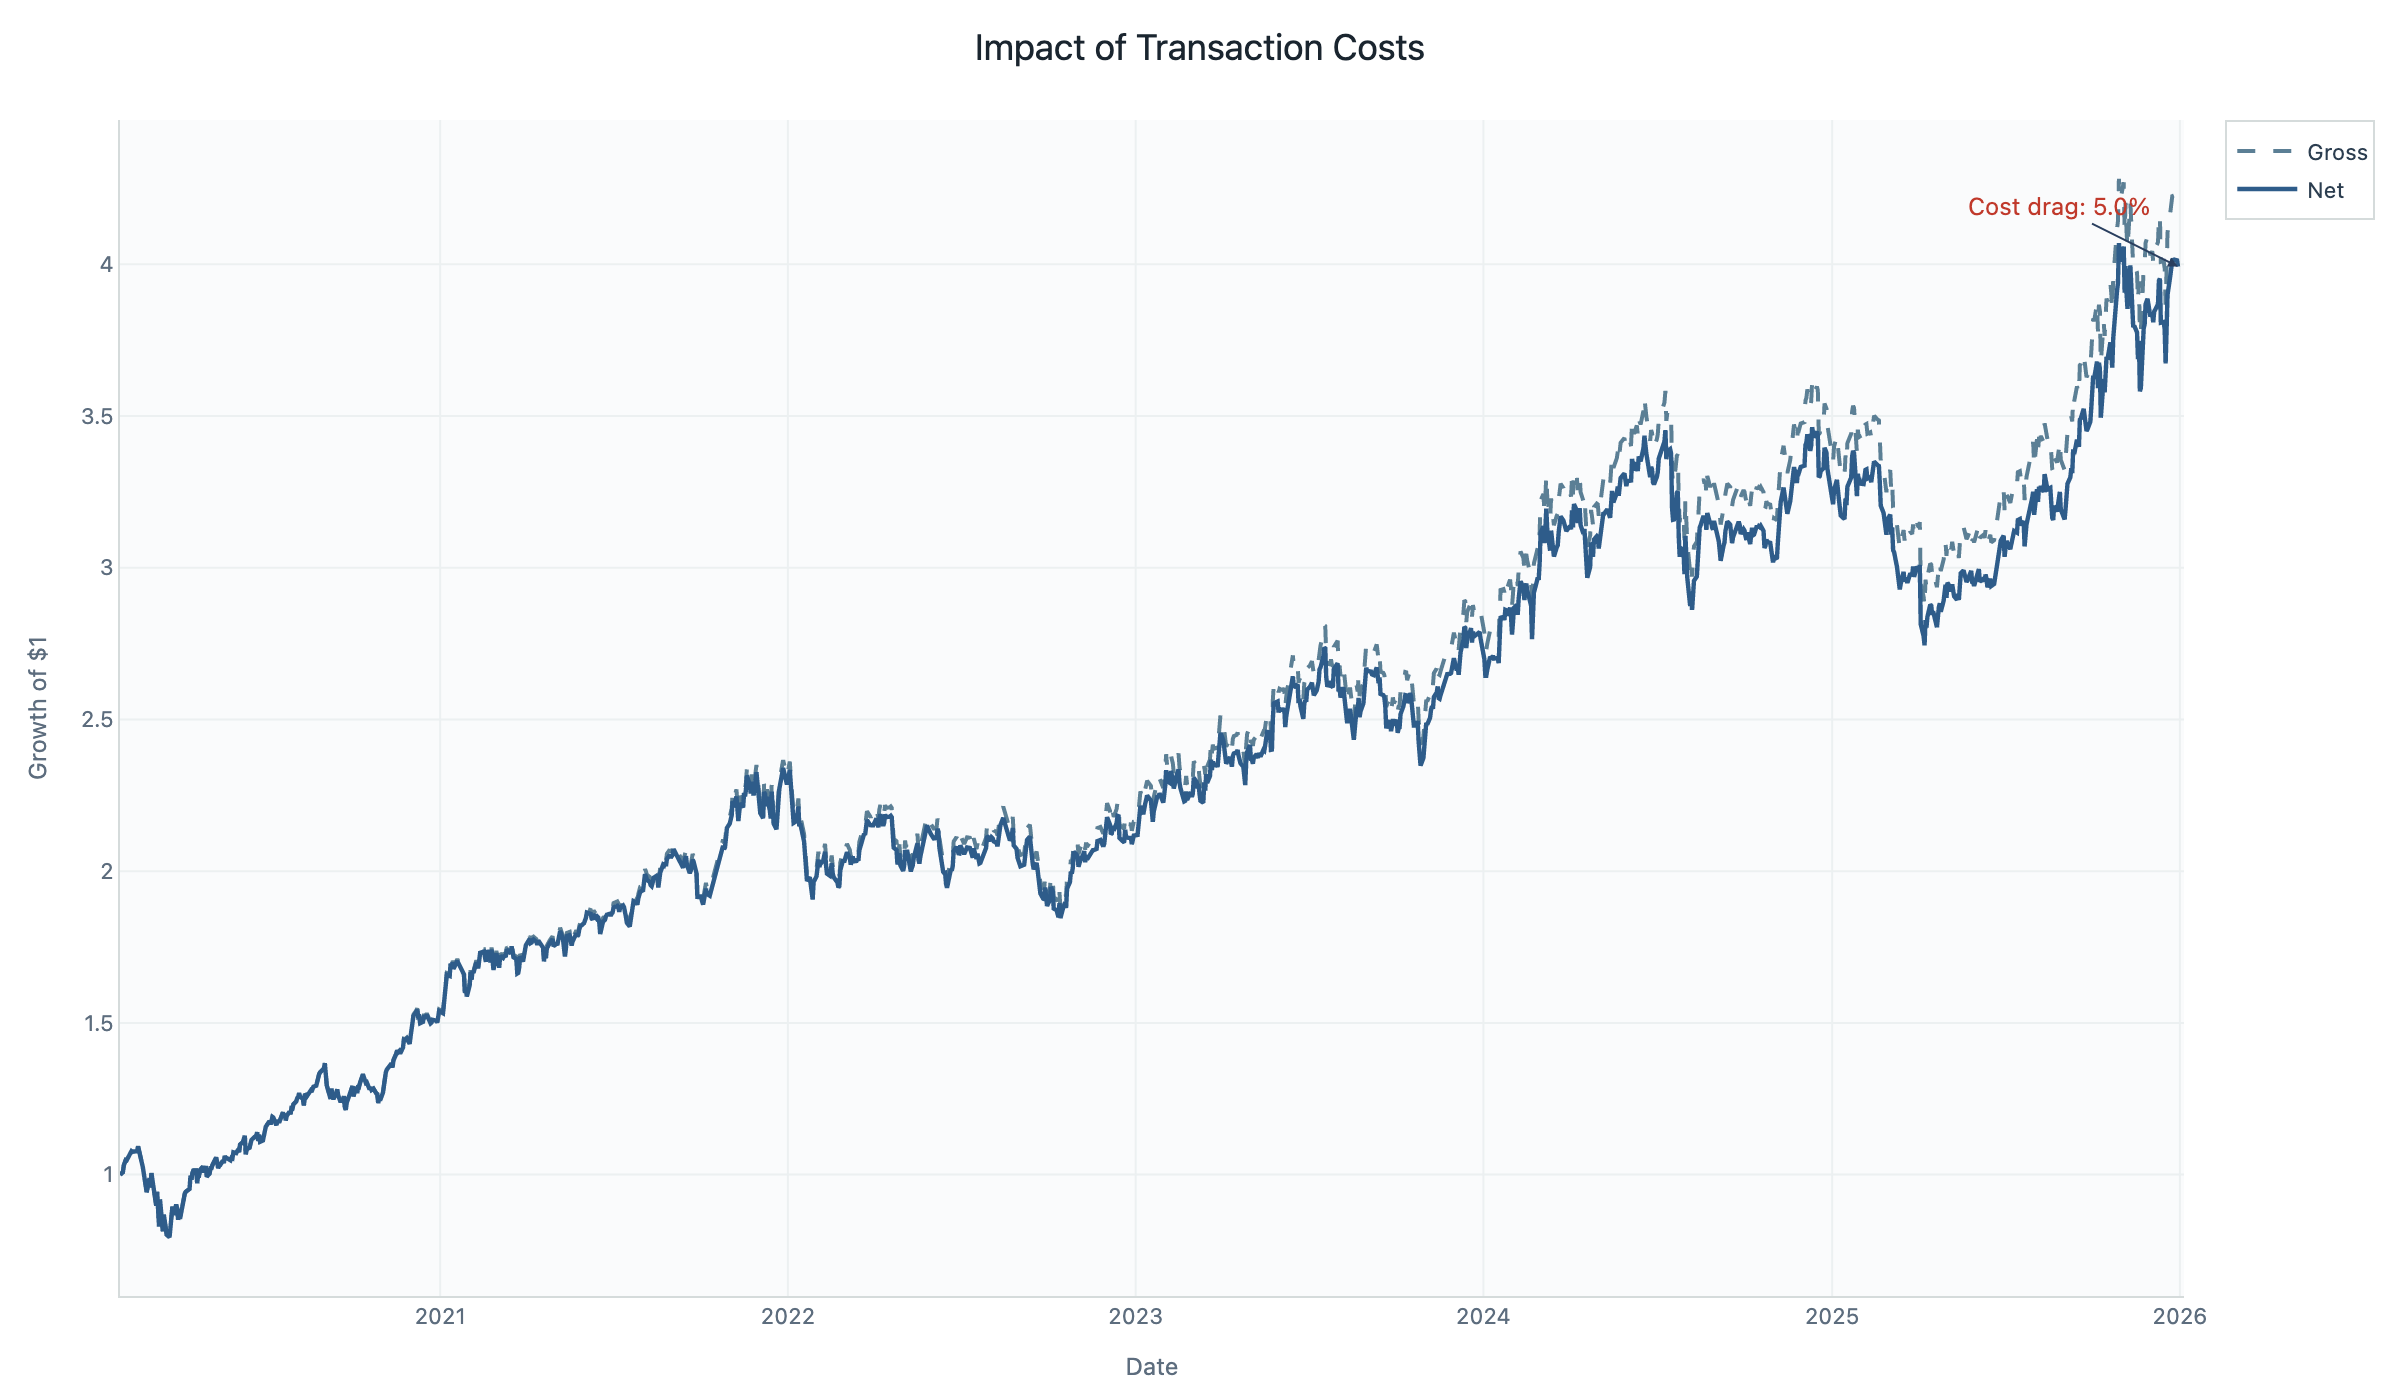
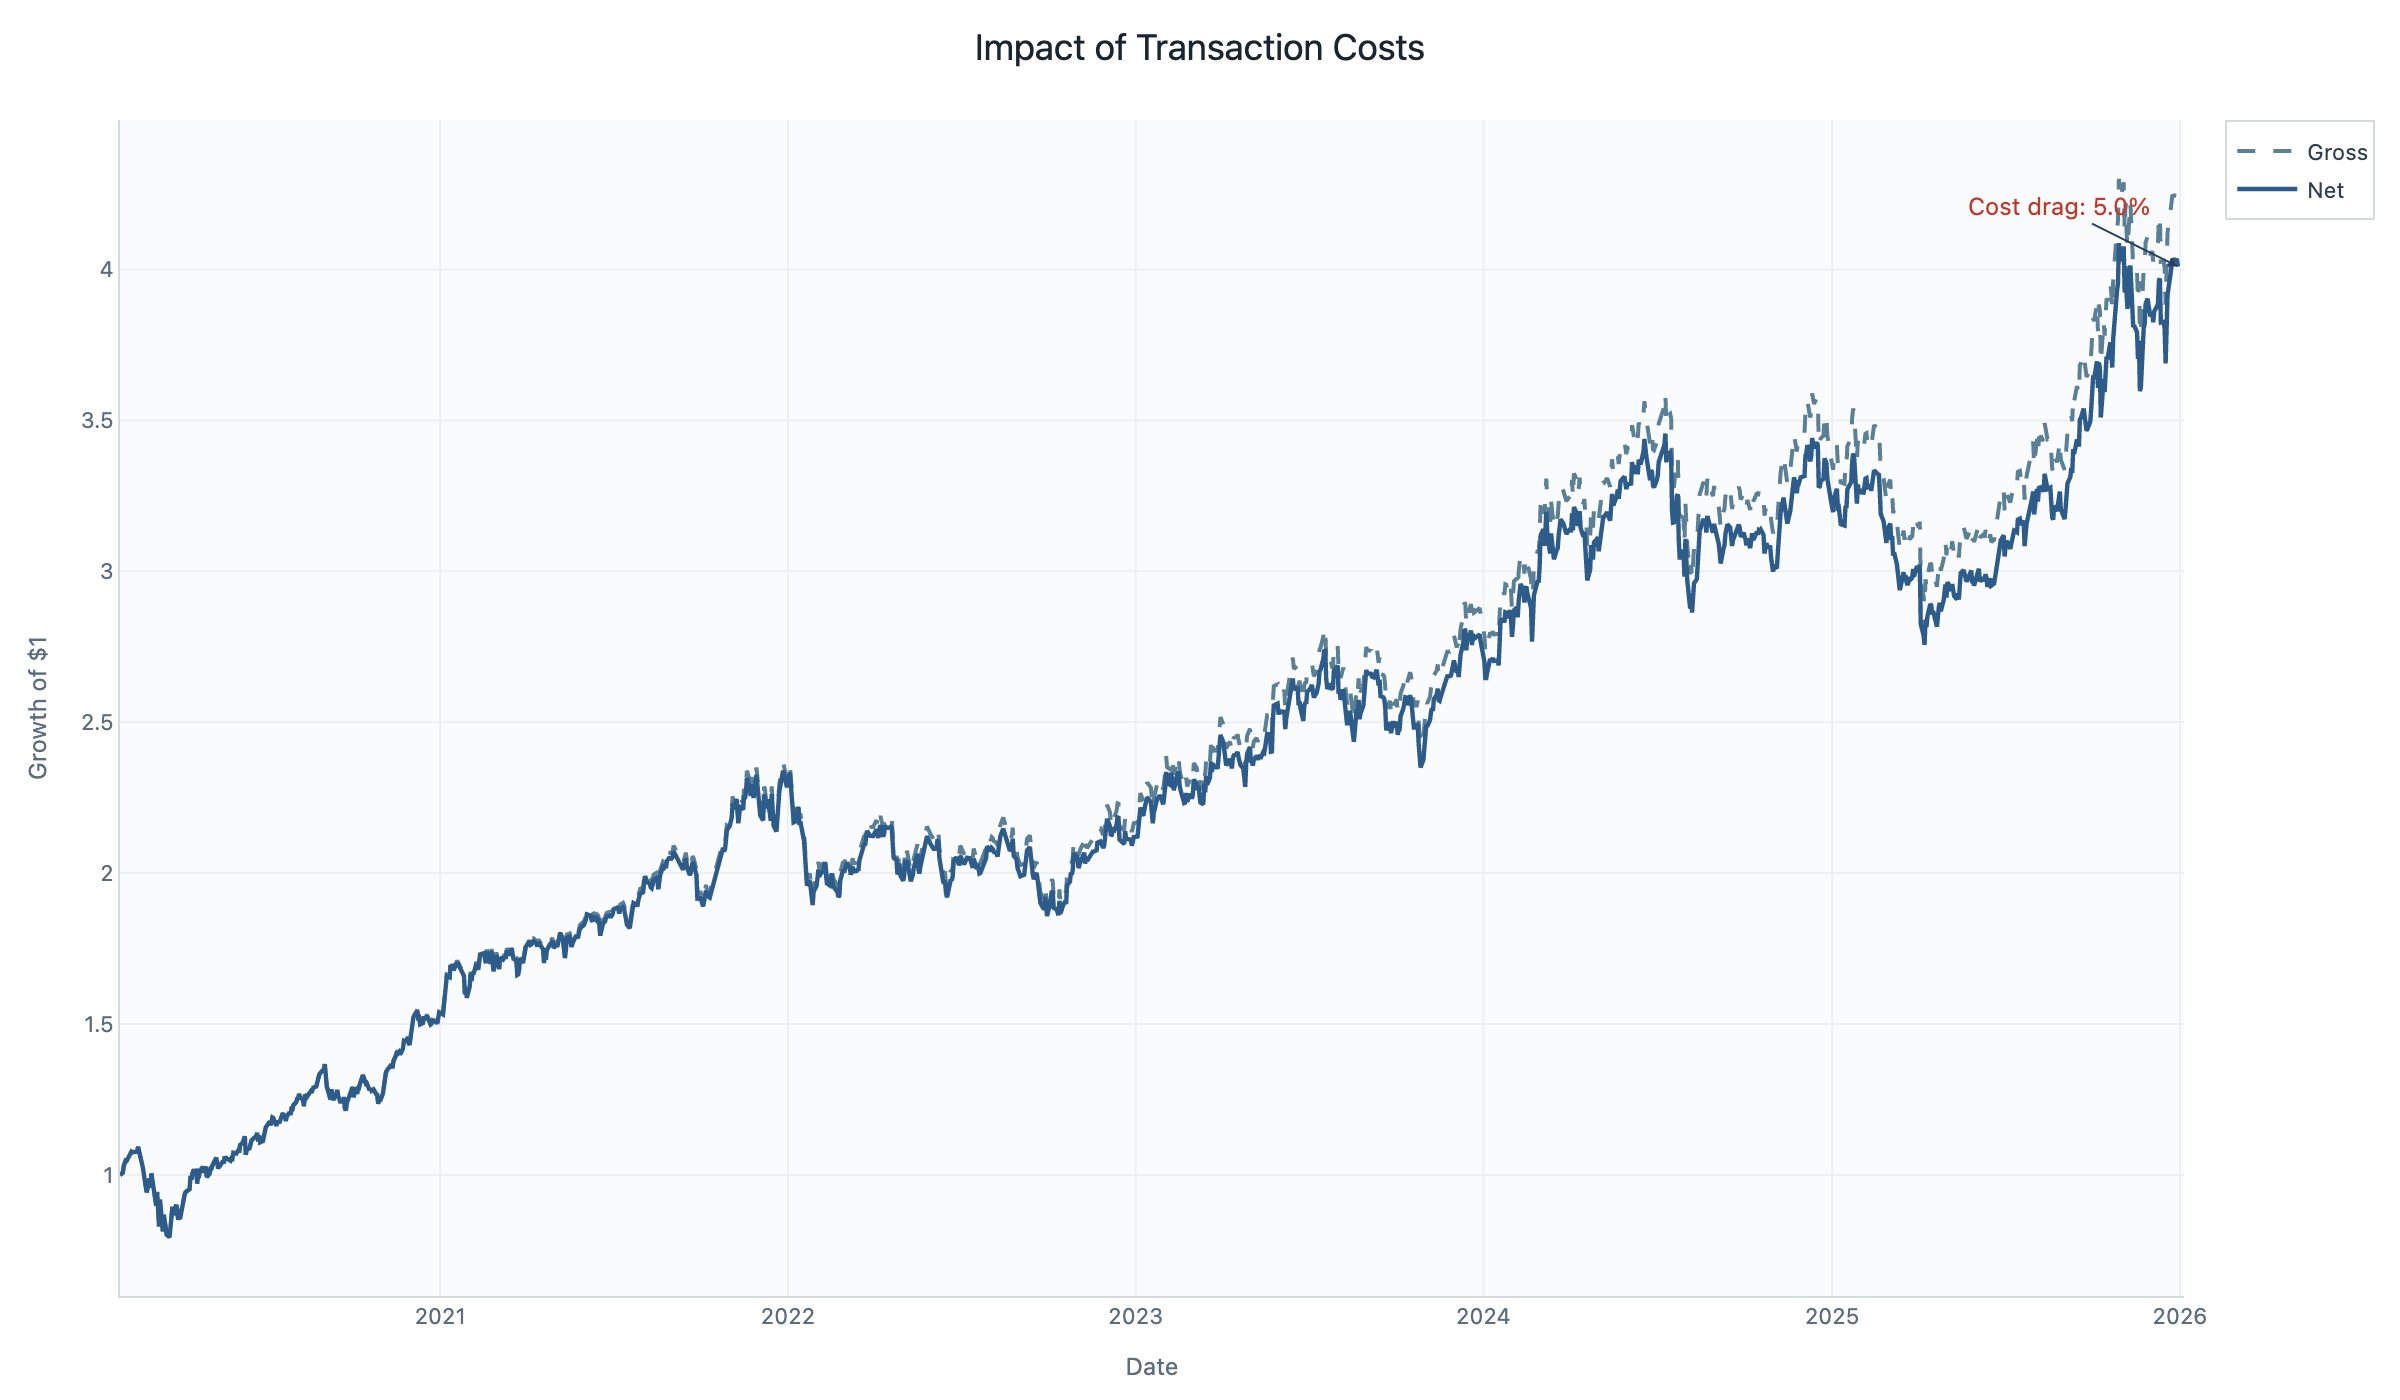
regenerate backtest outputs with fresh price data

diff --git a/outputs/reports/research_diagnostics_report.md b/outputs/reports/research_diagnostics_report.md
@@ -1,26 +1,26 @@
 # Research Diagnostics Report
 
-*Generated 2026-04-14 23:21 UTC*
+*Generated 2026-04-17 02:04 UTC*
 
 # Validation Report
-*Generated 2026-04-14 23:21 UTC*
+*Generated 2026-04-17 02:04 UTC*
 
 ## 1. Summary
 
 | Result | Count |
 |--------|-------|
-| PASS   | 5     |
-| WARN   | 2     |
+| PASS   | 7     |
+| WARN   | 0     |
 | FAIL   | 0     |
 
-**Overall: ISSUES DETECTED**
+**Overall: PASS**
 
 ## 2. Lookahead Bias Checks
 
 | Check | Status | Detail |
 |-------|--------|--------|
 | factor_timing | PASS | All factor dates exist in prices; warm-up periods contain NaN as expected. No evidence of lookahead bias in factor timing. |
-| no_future_data_in_factors | WARN | Cannot run future-data check: need momentum columns and adj_close in factor_df. |
+| no_future_data_in_factors | PASS | Momentum factors correlate with past price changes, not future ones. No evidence of lookahead in factor construction. |
 | rebalance_timing | PASS | All rebalance-date holdings are consistent with factor scores available on or before the rebalance date. |
 
 ## 3. Data Quality Checks
@@ -44,27 +44,22 @@
 
 | Check | Status | Detail |
 |-------|--------|--------|
-| missing_data | WARN | 3 column(s) with >10% missing: dist_ma200 (14.1%), composite_score (14.1%), composite_rank (14.1%) |
-
-## Warnings
-
-- [no_future_data_in_factors] Cannot run future-data check: need momentum columns and adj_close in factor_df.
-- [missing_data] 3 column(s) with >10% missing: dist_ma200 (14.1%), composite_score (14.1%), composite_rank (14.1%)
+| missing_data | PASS | All missing data is in warmup-dependent columns (expected): dist_ma200 (13.2%), composite_score (13.2%), composite_rank (13.2%). Moving-average and multi-month return factors require a lookback window before producing values. |
 
 
 ## Factor IC Summary
 
 | factor            |      mean_ic |    ic_std |       ic_ir |   hit_rate |   n_periods |
 |:------------------|-------------:|----------:|------------:|-----------:|------------:|
-| avg_dollar_volume |  0.000753058 | 0.154102  |  0.00488676 |   0.490579 |        1486 |
-| relative_volume   | -0.0403329   | 0.134471  | -0.299938   |   0.376178 |        1486 |
-| dist_ma50         |  0.853428    | 0.0889833 |  9.59088    |   1        |        1458 |
-| dist_ma200        |  0.497526    | 0.181147  |  2.74652    |   0.980122 |        1308 |
+| avg_dollar_volume |  0.000562984 | 0.155596  |  0.00361825 |   0.494616 |        1486 |
+| relative_volume   | -0.0400941   | 0.134204  | -0.298755   |   0.381561 |        1486 |
+| dist_ma50         |  0.853229    | 0.0891606 |  9.56958    |   1        |        1458 |
+| dist_ma200        |  0.497301    | 0.181144  |  2.74533    |   0.980887 |        1308 |
 
 ## Score Persistence
 
-- Average score rank autocorrelation: **nan**
-- Min: nan, Max: nan
+- Average score rank autocorrelation: **0.9753**
+- Min: 0.7963, Max: 0.9981
 
 ## Holdings Overlap
 
@@ -76,7 +71,7 @@
 | start      | trough     | end        |   depth_pct |   duration_days |   recovery_days |
 |:-----------|:-----------|:-----------|------------:|----------------:|----------------:|
 | 2020-02-21 | 2020-03-23 | 2020-06-05 |    -27.371  |             105 |              74 |
-| 2021-12-30 | 2022-10-14 | 2023-03-21 |    -21.1375 |             446 |             158 |
-| 2024-12-18 | 2025-04-08 | 2025-09-18 |    -20.7536 |             274 |             163 |
-| 2024-07-11 | 2024-08-07 | 2024-12-11 |    -17.1545 |             153 |             126 |
+| 2021-12-30 | 2022-09-30 | 2023-03-21 |    -20.5994 |             446 |             172 |
+| 2024-07-11 | 2025-04-08 | 2025-09-18 |    -20.2561 |             434 |             163 |
 | 2023-07-20 | 2023-10-27 | 2023-12-11 |    -14.214  |             144 |              45 |
+| 2025-10-30 | 2025-11-20 |            |    -12.0032 |              61 |             nan |

diff --git a/outputs/reports/backtest_report.md b/outputs/reports/backtest_report.md
@@ -1,28 +1,30 @@
 # Multi-Factor Strategy — Backtest Report
-*Generated 2026-04-14 23:21 UTC*
+*Generated 2026-04-17 02:04 UTC*
 
 ## Performance Summary
 
 | Metric | Value |
 | --- | --- |
-| Total Return | +299.49% |
-| CAGR | +26.46% |
-| Annualized Volatility | 24.68% |
-| Sharpe Ratio | 1.074 |
+| Total Return | +301.28% |
+| CAGR | +26.55% |
+| Annualized Volatility | 24.67% |
+| Sharpe Ratio | 1.078 |
 | Sortino Ratio | 1.035 |
 | Max Drawdown | -27.37% |
-| Calmar Ratio | 0.967 |
-| Daily Win Rate | 55.55% |
-| Weekly Win Rate | 56.77% |
+| Calmar Ratio | 0.970 |
+| Daily Win Rate | 55.75% |
+| Weekly Win Rate | 57.10% |
 | Avg Turnover (one-way) | 47.78% |
+| Excess Return (ann.) | +10.38% |
+| Information Ratio | 0.689 |
 
 ## Key Highlights
 
-- **CAGR**: +26.46%
-- **Sharpe Ratio**: 1.074
+- **CAGR**: +26.55%
+- **Sharpe Ratio**: 1.078
 - **Max Drawdown**: -27.37%
 - **Sortino Ratio**: 1.035
-- **Calmar Ratio**: 0.967
+- **Calmar Ratio**: 0.970
 
 ## Configuration
 
@@ -141,9 +143,9 @@ sensitivity:
 
 | Month | Return |
 |-------|--------|
-| 2022-01 | -13.26% |
+| 2022-01 | -14.36% |
+| 2022-09 | -7.23% |
 | 2023-09 | -7.13% |
-| 2022-09 | -7.08% |
 
 ## Assumptions & Caveats
 
